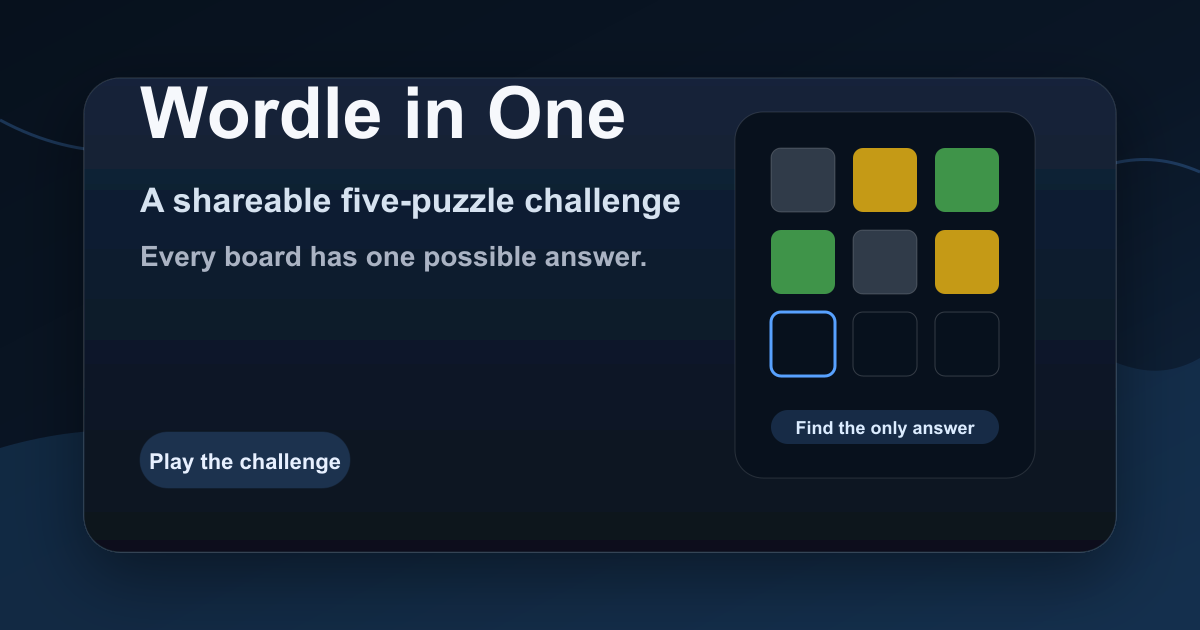
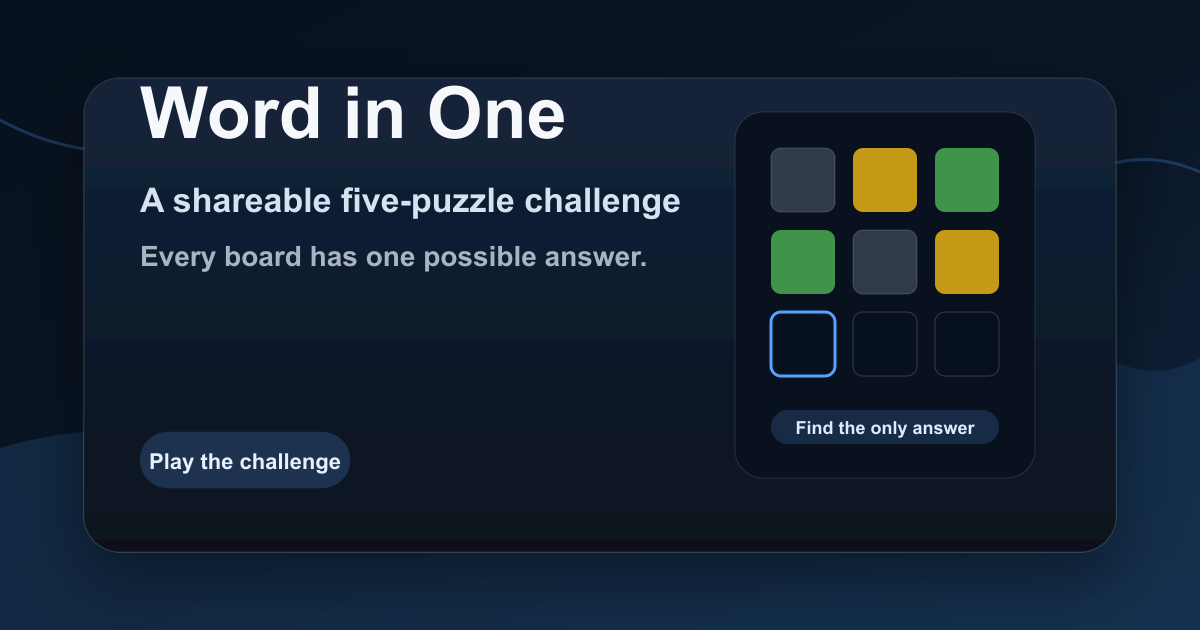
Rename app to Word in One (#9)

Changed region(s): [[0.2467, 0.1206, 0.5242, 0.2413]]

diff --git a/index.html b/index.html
@@ -3,34 +3,34 @@
   <head>
     <meta charset="utf-8" />
     <meta name="viewport" content="width=device-width, initial-scale=1, maximum-scale=1, user-scalable=no, viewport-fit=cover" />
-    <title>Wordle in One</title>
-    <meta name="description" content="Five Wordle boards. One possible answer each." />
+    <title>Word in One</title>
+    <meta name="description" content="Five word puzzles. One possible answer each." />
     <meta name="theme-color" content="#07111d" />
-    <meta name="apple-mobile-web-app-title" content="Wordle in One" />
+    <meta name="apple-mobile-web-app-title" content="Word in One" />
     <meta property="og:type" content="website" />
-    <meta property="og:site_name" content="Wordle in One" />
-    <meta property="og:title" content="Wordle in One" />
-    <meta property="og:description" content="Five Wordle boards. One possible answer each." />
-    <meta property="og:url" content="https://wordle-in-one.com/" />
-    <meta property="og:image" content="https://wordle-in-one.com/share-preview.png" />
-    <meta property="og:image:secure_url" content="https://wordle-in-one.com/share-preview.png" />
+    <meta property="og:site_name" content="Word in One" />
+    <meta property="og:title" content="Word in One" />
+    <meta property="og:description" content="Five word puzzles. One possible answer each." />
+    <meta property="og:url" content="https://word-in-one.com/" />
+    <meta property="og:image" content="https://word-in-one.com/share-preview.png" />
+    <meta property="og:image:secure_url" content="https://word-in-one.com/share-preview.png" />
     <meta property="og:image:type" content="image/png" />
     <meta property="og:image:width" content="1200" />
     <meta property="og:image:height" content="630" />
-    <meta property="og:image:alt" content="Wordle in One challenge preview" />
+    <meta property="og:image:alt" content="Word in One challenge preview" />
     <meta name="twitter:card" content="summary_large_image" />
-    <meta name="twitter:title" content="Wordle in One" />
-    <meta name="twitter:description" content="Five Wordle boards. One possible answer each." />
-    <meta name="twitter:image" content="https://wordle-in-one.com/share-preview.png" />
-    <meta name="twitter:image:alt" content="Wordle in One challenge preview" />
-    <link rel="canonical" href="https://wordle-in-one.com/" />
+    <meta name="twitter:title" content="Word in One" />
+    <meta name="twitter:description" content="Five word puzzles. One possible answer each." />
+    <meta name="twitter:image" content="https://word-in-one.com/share-preview.png" />
+    <meta name="twitter:image:alt" content="Word in One challenge preview" />
+    <link rel="canonical" href="https://word-in-one.com/" />
     <link rel="icon" href="favicon.svg" type="image/svg+xml" />
     <link rel="apple-touch-icon" href="apple-touch-icon.png" />
     <link rel="stylesheet" href="styles.css" />
   </head>
   <body>
     <main class="app-shell">
-      <section class="game-shell" aria-label="Wordle in One game">
+      <section class="game-shell" aria-label="Word in One game">
         <header class="game-header">
           <button id="settings-button" class="icon-button" type="button" aria-label="Open puzzle options" aria-controls="answer-modal" aria-expanded="false">
             <svg viewBox="0 0 24 24" aria-hidden="true">
@@ -40,7 +40,7 @@
           </button>
 
           <div class="title-stack">
-            <h1 id="title"><a class="title-link" href="/" aria-label="Wordle in One home">Wordle in One</a></h1>
+            <h1 id="title"><a class="title-link" href="/" aria-label="Word in One home">Word in One</a></h1>
           </div>
 
           <button id="help-button" class="icon-button" type="button" aria-label="Open how it works" aria-controls="help-modal" aria-expanded="false">

diff --git a/test/preview.test.js b/test/preview.test.js
@@ -12,25 +12,25 @@ test("preview metadata uses the canonical domain and shared challenge code", asy
 
   assert.equal(normalizeChallengeCode(" AbC-234! "), "abc234");
   assert.equal(normalizeChallengeCode("0o1ilx"), "x");
-  assert.equal(meta.title, "Wordle in One Challenge ABC234");
-  assert.equal(meta.description, "Challenge ABC234: five Wordle boards, one possible answer each.");
-  assert.equal(meta.url, "https://wordle-in-one.com/?seed=abc234");
-  assert.equal(meta.image, "https://wordle-in-one.com/share-preview.png");
+  assert.equal(meta.title, "Word in One Challenge ABC234");
+  assert.equal(meta.description, "Challenge ABC234: five word puzzles, one possible answer each.");
+  assert.equal(meta.url, "https://word-in-one.com/?seed=abc234");
+  assert.equal(meta.image, "https://word-in-one.com/share-preview.png");
 
-  assert.match(preview, /<title>Wordle in One Challenge ABC234<\/title>/);
-  assert.match(preview, /<meta property="og:title" content="Wordle in One Challenge ABC234" \/>/);
-  assert.match(preview, /<meta property="og:description" content="Challenge ABC234: five Wordle boards, one possible answer each\." \/>/);
-  assert.match(preview, /<meta property="og:url" content="https:\/\/wordle-in-one\.com\/\?seed=abc234" \/>/);
-  assert.match(preview, /<meta name="twitter:title" content="Wordle in One Challenge ABC234" \/>/);
-  assert.match(preview, /<link rel="canonical" href="https:\/\/wordle-in-one\.com\/\?seed=abc234" \/>/);
+  assert.match(preview, /<title>Word in One Challenge ABC234<\/title>/);
+  assert.match(preview, /<meta property="og:title" content="Word in One Challenge ABC234" \/>/);
+  assert.match(preview, /<meta property="og:description" content="Challenge ABC234: five word puzzles, one possible answer each\." \/>/);
+  assert.match(preview, /<meta property="og:url" content="https:\/\/word-in-one\.com\/\?seed=abc234" \/>/);
+  assert.match(preview, /<meta name="twitter:title" content="Word in One Challenge ABC234" \/>/);
+  assert.match(preview, /<link rel="canonical" href="https:\/\/word-in-one\.com\/\?seed=abc234" \/>/);
 });
 
 test("preview metadata falls back to daily copy without a challenge code", () => {
   const meta = previewMetaForUrl("https://worlde-in-one.snissn.workers.dev/");
 
-  assert.equal(meta.title, "Wordle in One");
-  assert.equal(meta.description, "Five Wordle boards. One possible answer each.");
-  assert.equal(meta.url, "https://wordle-in-one.com/");
+  assert.equal(meta.title, "Word in One");
+  assert.equal(meta.description, "Five word puzzles. One possible answer each.");
+  assert.equal(meta.url, "https://word-in-one.com/");
 });
 
 test("interactive challenge navigation stays on the current deployment", () => {

diff --git a/test/puzzle.test.js b/test/puzzle.test.js
@@ -53,7 +53,7 @@ test("scores present letters", () => {
   assert.equal(signature(scoreGuess("rebut", "cigar")), "paaaa");
 });
 
-test("scores duplicate letters with Wordle-style consumption", () => {
+test("scores duplicate letters with tile-state consumption", () => {
   assert.deepEqual(scoreGuess("allee", "apple"), [
     TileState.CORRECT,
     TileState.PRESENT,
@@ -63,7 +63,7 @@ test("scores duplicate letters with Wordle-style consumption", () => {
   ]);
 });
 
-test("uses classic Wordle answers but validates uniqueness against every official guess", () => {
+test("uses classic answers but validates uniqueness against every official guess", () => {
   assert.equal(CLASSIC_ANSWERS.length, 2315);
   assert.equal(VALID_GUESSES.length, 12972);
   assert.deepEqual(ANSWERS, CLASSIC_ANSWERS);
@@ -112,7 +112,7 @@ test("difficulty bands are fixed score ranges", () => {
   assert.equal(difficultyBandForScore(DIFFICULTY_BANDS[2].minScore - 1).id, DIFFICULTY_BANDS[1].id);
 });
 
-test("solver starts with a common Wordle opener instead of a random probe", () => {
+test("solver starts with a common opener instead of a random probe", () => {
   const puzzle = buildPuzzleForTarget("study");
 
   assert.equal(puzzle.rows[0].word, "crane");

diff --git a/worker.js b/worker.js
@@ -1,7 +1,7 @@
 import { canonicalAppUrl, canonicalAssetUrl } from "./src/urls.js";
 
-const DEFAULT_TITLE = "Wordle in One";
-const DEFAULT_DESCRIPTION = "Five Wordle boards. One possible answer each.";
+const DEFAULT_TITLE = "Word in One";
+const DEFAULT_DESCRIPTION = "Five word puzzles. One possible answer each.";
 const SHARE_SEED_ALPHABET = "23456789abcdefghjkmnpqrstuvwxyz";
 const SHARE_SEED_LENGTH = 6;
 const SHARE_SEED_CHARACTERS = new Set(SHARE_SEED_ALPHABET);
@@ -39,9 +39,9 @@ export function previewMetaForUrl(href) {
   const challengeCode = normalizeChallengeCode(url.searchParams.get("seed"));
   const hasChallenge = challengeCode.length >= 4;
   const displayCode = displayChallengeCode(challengeCode);
-  const title = hasChallenge ? `Wordle in One Challenge ${displayCode}` : DEFAULT_TITLE;
+  const title = hasChallenge ? `Word in One Challenge ${displayCode}` : DEFAULT_TITLE;
   const description = hasChallenge
-    ? `Challenge ${displayCode}: five Wordle boards, one possible answer each.`
+    ? `Challenge ${displayCode}: five word puzzles, one possible answer each.`
     : DEFAULT_DESCRIPTION;
   const image = canonicalAssetUrl("/share-preview.png");
 

diff --git a/src/main.js b/src/main.js
@@ -313,7 +313,7 @@ function seedForShare() {
 
 function dailySharePayload() {
   return {
-    title: "Today's Wordle in One",
+    title: "Today's Word in One",
     text: "I finished today's challenge. Can you find all five only possible answers?",
     url: canonicalAppUrl()
   };
@@ -323,8 +323,8 @@ function challengeSharePayload(seed) {
   const challengeCode = displaySeed(seed);
 
   return {
-    title: `Wordle in One Challenge ${challengeCode}`,
-    text: `Challenge ${challengeCode}: five Wordle boards, one possible answer each.`,
+    title: `Word in One Challenge ${challengeCode}`,
+    text: `Challenge ${challengeCode}: five word puzzles, one possible answer each.`,
     url: canonicalAppUrl(seed)
   };
 }

diff --git a/src/puzzle.js b/src/puzzle.js
@@ -802,7 +802,7 @@ export function createPuzzle(rng = Math.random, options = {}) {
     }
   }
 
-  throw new Error("Could not generate a one-answer Wordle puzzle");
+  throw new Error("Could not generate a one-answer word puzzle");
 }
 
 function selectDifficultySpread(puzzles, count) {

diff --git a/src/urls.js b/src/urls.js
@@ -1,4 +1,4 @@
-export const CANONICAL_ORIGIN = "https://wordle-in-one.com";
+export const CANONICAL_ORIGIN = "https://word-in-one.com";
 
 export function canonicalAppUrl(seed = "") {
   const url = new URL("/", CANONICAL_ORIGIN);

diff --git a/README.md b/README.md
@@ -1,8 +1,8 @@
-# Wordle in One
+# Word in One
 
-A tiny static Wordle clone where every calendar day has five deterministic puzzles. Each puzzle starts with enough guesses already filled in to leave exactly one valid Wordle guess, which is the classic Wordle answer. The player gets the next guess, which may be earlier than guess six.
+A tiny static five-letter word game where every calendar day has five deterministic puzzles. Each puzzle starts with enough guesses already filled in to leave exactly one valid guess, which is the classic answer. The player gets the next guess, which may be earlier than guess six.
 
-The prefilled rows use a solver-ish hard-mode strategy: a common opener followed by entropy/minimax-style guesses chosen from the remaining candidate answers, so every green/yellow clue is reused. Trivial near-answer boards are rejected, including simple yellow-letter swaps and boards with almost every position already green. The five daily puzzles are selected from a deterministic candidate stream by filling one human-readable difficulty band each: Easy, Medium, Tricky, Hard, and Expert. Difficulty is scored from the visible clue board, including unresolved letters and positions, near-miss pressure, late ambiguity, and reliance on exclusions rather than rare-letter answer values. The final guess is entered through the Wordle-style keyboard, including its Enter and backspace keys, and daily progress is saved in localStorage. Challenge URLs such as `?seed=abc234` generate a replayable five-puzzle set; daily challenge links are derived from the date plus a sequence number so the same nth challenge is shared by everyone that day.
+The prefilled rows use a solver-ish hard-mode strategy: a common opener followed by entropy/minimax-style guesses chosen from the remaining candidate answers, so every green/yellow clue is reused. Trivial near-answer boards are rejected, including simple yellow-letter swaps and boards with almost every position already green. The five daily puzzles are selected from a deterministic candidate stream by filling one human-readable difficulty band each: Easy, Medium, Tricky, Hard, and Expert. Difficulty is scored from the visible clue board, including unresolved letters and positions, near-miss pressure, late ambiguity, and reliance on exclusions rather than rare-letter answer values. The final guess is entered through the on-screen keyboard, including its Enter and backspace keys, and daily progress is saved in localStorage. Challenge URLs such as `?seed=abc234` generate a replayable five-puzzle set; daily challenge links are derived from the date plus a sequence number so the same nth challenge is shared by everyone that day.
 
 Word lists are vendored from `Kinkelin/WordleCompetition` official data: 2,315 classic answer words, 10,657 additional allowed guesses, and 12,972 total valid guesses verified against the combined list. By default, daily answers are chosen from the classic answer list, but a board is only valid when the clues leave exactly one word from all 12,972 valid guesses. Refresh the vendored lists with `npm run update-wordlists`. See `THIRD_PARTY_NOTICES.md`.
 
@@ -22,7 +22,7 @@ No build step or external dependencies are required.
 npm test
 ```
 
-The tests verify Wordle scoring, duplicate-letter handling, and that generated boards leave exactly one possible answer.
+The tests verify tile scoring, duplicate-letter handling, and that generated boards leave exactly one possible answer.
 
 Audit difficulty labels across generated days:
 
